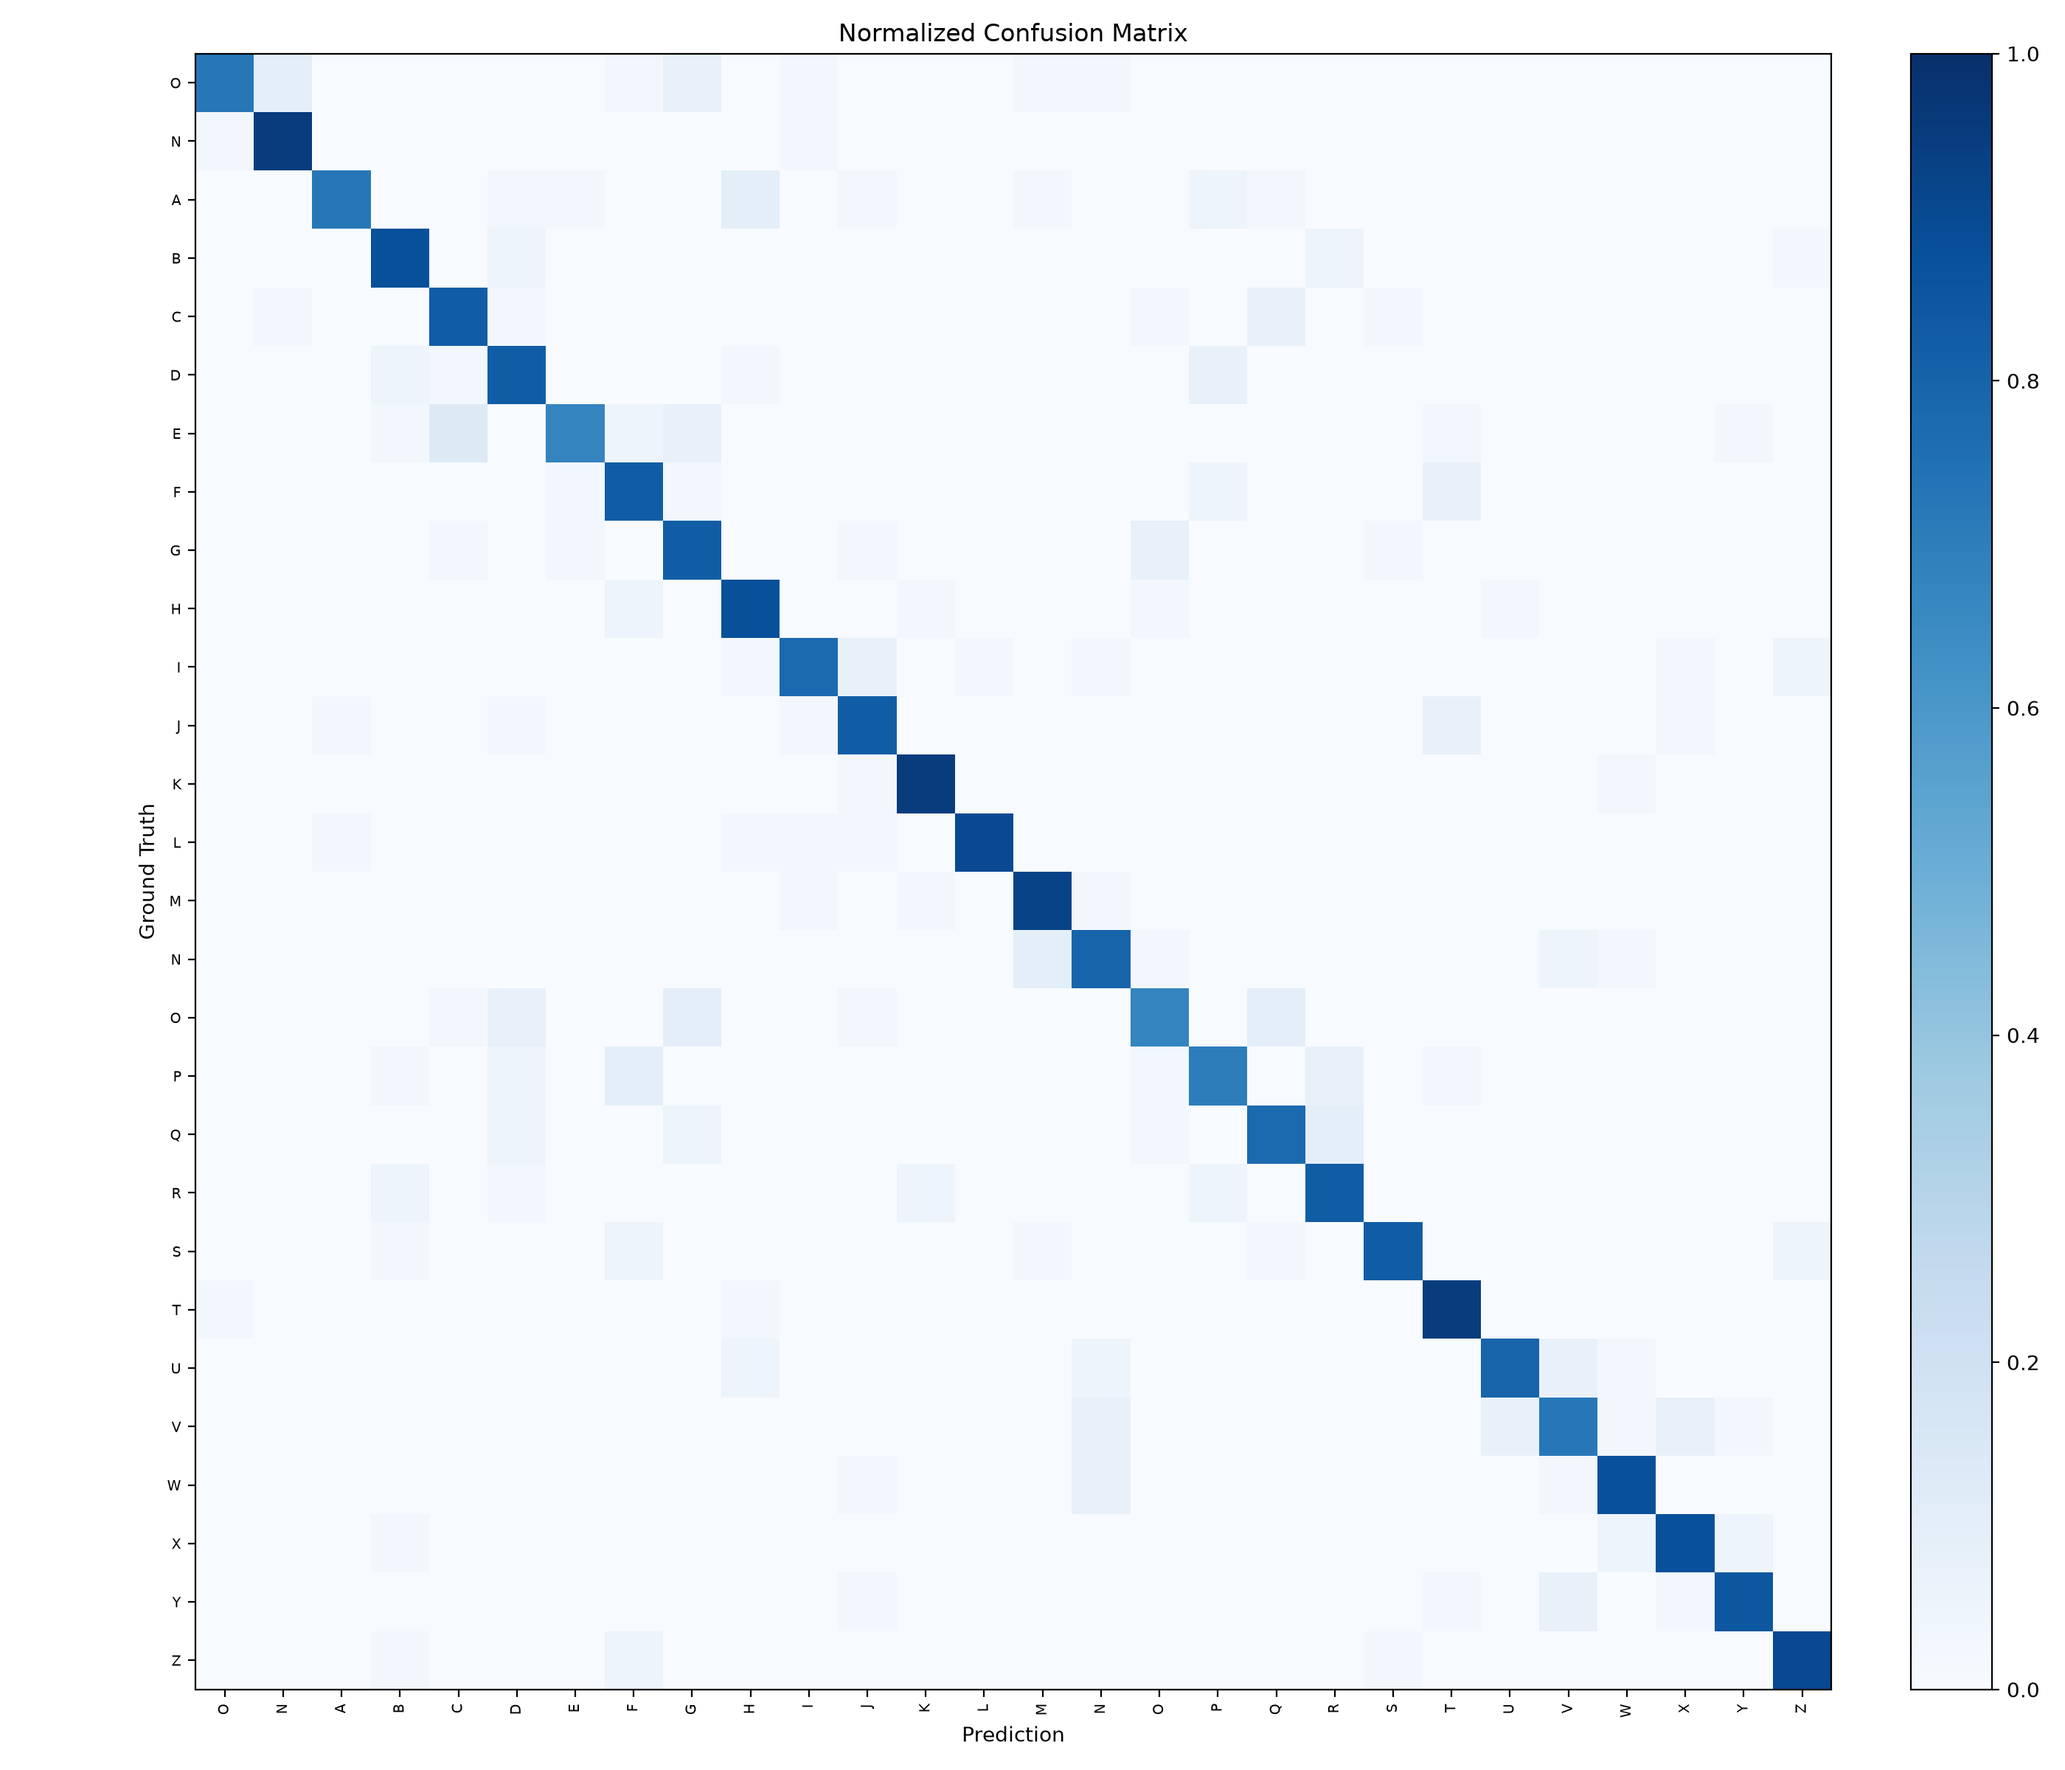
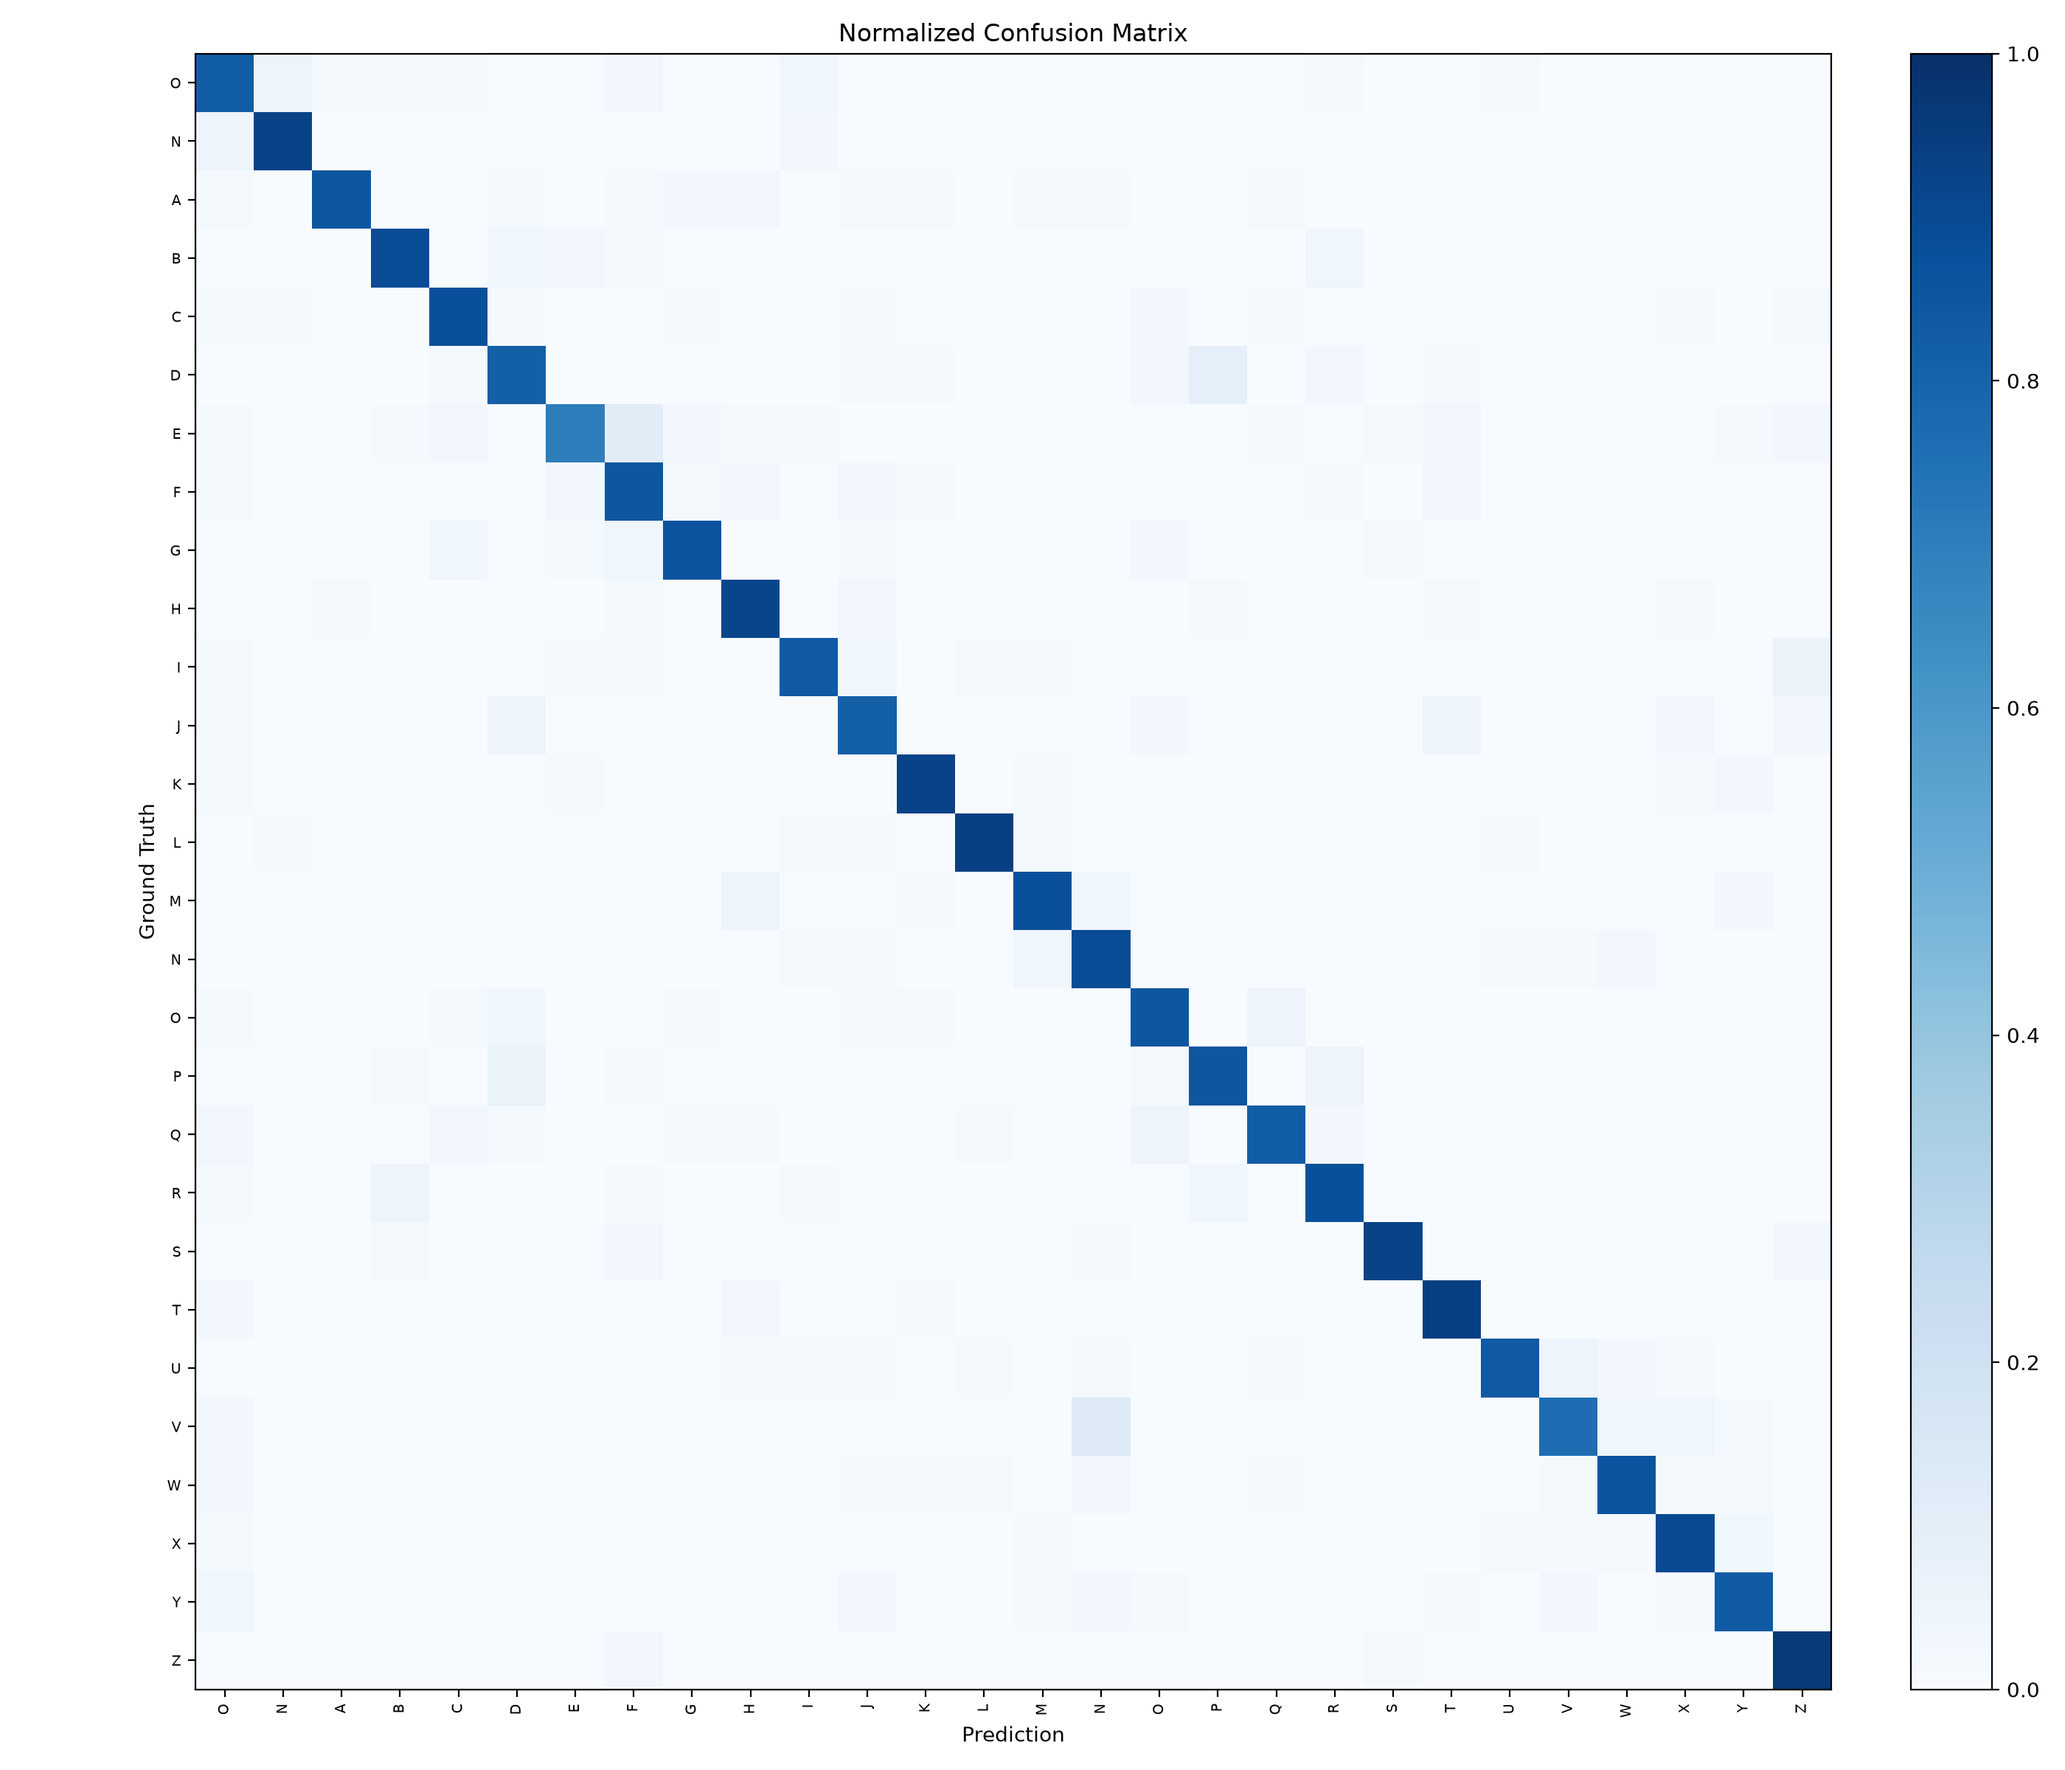
48 frame+400 vid per class

diff --git a/src/airletters/pipelines/train.py b/src/airletters/pipelines/train.py
@@ -18,7 +18,7 @@ from torch import nn
 from airletters.config import get_artifact_dir, load_config
 from airletters.data import create_dataloaders
 from airletters.models import create_model
-from airletters.utils.checkpointing import save_checkpoint
+from airletters.utils.checkpointing import load_checkpoint, save_checkpoint
 from airletters.utils.plots import save_training_curves
 from airletters.utils.reproducibility import seed_everything
 from airletters.utils.train_eval import evaluate, train_one_epoch
@@ -28,6 +28,7 @@ def parse_args() -> argparse.Namespace:
     parser = argparse.ArgumentParser(description="Train CNN+BiLSTM on AirLetters")
     parser.add_argument("--config", default="configs/letters.yaml", help="Path to a YAML config file.")
     parser.add_argument("--epochs", type=int, default=None, help="Override number of training epochs.")
+    parser.add_argument("--resume", default=None, help="Path to a checkpoint to resume training from.")
     parser.add_argument("--max-train-batches", type=int, default=None, help="Limit train batches for smoke tests.")
     parser.add_argument("--max-val-batches", type=int, default=None, help="Limit validation batches for smoke tests.")
     return parser.parse_args()
@@ -58,6 +59,25 @@ def main() -> None:
     else:
         scheduler = None
 
+    # Resume checkpoint state if requested
+    start_epoch = 0
+    best_metric = float("-inf")
+    if args.resume is not None:
+        resume_path = Path(args.resume)
+        if resume_path.is_file():
+            checkpoint = load_checkpoint(
+                resume_path,
+                model=model,
+                device=device,
+                optimizer=optimizer,
+                scheduler=scheduler,
+            )
+            start_epoch = int(checkpoint["epoch"])
+            best_metric = float(checkpoint["metrics"].get(training_config["save_best_metric"], float("-inf")))
+            print(f"Resumed training from {resume_path} at epoch {start_epoch} (best metric so far: {best_metric:.4f})")
+        else:
+            print(f"Warning: resume checkpoint not found at: {args.resume}. Starting from scratch.")
+
     checkpoints_dir = get_artifact_dir(config, "checkpoints_dir")
     logs_dir = get_artifact_dir(config, "logs_dir")
     outputs_dir = get_artifact_dir(config, "outputs_dir")
@@ -65,12 +85,13 @@ def main() -> None:
     logs_dir.mkdir(parents=True, exist_ok=True)
     outputs_dir.mkdir(parents=True, exist_ok=True)
     metrics_path = logs_dir / "metrics.jsonl"
-    # Clear metrics log at the start of each new run
-    metrics_path.write_text("", encoding="utf-8")
+    
+    # Only clear metrics log if starting a new run from scratch
+    if args.resume is None:
+        metrics_path.write_text("", encoding="utf-8")
 
     # epochs already computed above for the scheduler
     best_metric_name = str(training_config["save_best_metric"])
-    best_metric = float("-inf")
 
     print(f"Device: {device}")
     print(f"Train samples: {len(dataloaders['train'].dataset)}")
@@ -80,7 +101,7 @@ def main() -> None:
     trainable_params = sum(parameter.numel() for parameter in model.parameters() if parameter.requires_grad)
     print(f"Model parameters: {total_params / 1_000_000:.2f}M total, {trainable_params / 1_000_000:.2f}M trainable")
 
-    for epoch in range(1, epochs + 1):
+    for epoch in range(start_epoch + 1, epochs + 1):
         train_metrics = train_one_epoch(
             model=model,
             dataloader=dataloaders["train"],
@@ -132,6 +153,7 @@ def main() -> None:
             metrics=metrics,
             config=config,
             label_to_index=label_to_index,
+            scheduler=scheduler,
         )
 
         current_metric = float(metrics[best_metric_name])
@@ -145,6 +167,7 @@ def main() -> None:
                 metrics=metrics,
                 config=config,
                 label_to_index=label_to_index,
+                scheduler=scheduler,
             )
 
     # Save training curves to outputs/

diff --git a/src/airletters/utils/checkpointing.py b/src/airletters/utils/checkpointing.py
@@ -17,6 +17,7 @@ def save_checkpoint(
     metrics: Mapping[str, float],
     config: Mapping[str, Any],
     label_to_index: Mapping[str, int],
+    scheduler: torch.optim.lr_scheduler.LRScheduler | None = None,
 ) -> None:
     """Save model state and experiment metadata."""
     checkpoint_path = Path(path)
@@ -26,6 +27,7 @@ def save_checkpoint(
             "epoch": epoch,
             "model_state_dict": model.state_dict(),
             "optimizer_state_dict": optimizer.state_dict() if optimizer else None,
+            "scheduler_state_dict": scheduler.state_dict() if scheduler else None,
             "metrics": dict(metrics),
             "config": dict(config),
             "label_to_index": dict(label_to_index),
@@ -38,6 +40,8 @@ def load_checkpoint(
     path: str | Path,
     model: nn.Module | None,
     device: torch.device,
+    optimizer: torch.optim.Optimizer | None = None,
+    scheduler: torch.optim.lr_scheduler.LRScheduler | None = None,
     map_only: bool = False,
 ) -> dict[str, Any]:
     """Load model weights and return checkpoint metadata.
@@ -47,11 +51,17 @@ def load_checkpoint(
         model: Model to load weights into. If *None* or *map_only* is True,
             weights are not loaded (only metadata is returned).
         device: Device to map tensors to.
+        optimizer: Optional optimizer to restore state.
+        scheduler: Optional learning rate scheduler to restore state.
         map_only: If True, only load the checkpoint dict without applying
-            weights to the model. Useful for reading metadata before building
-            the model architecture.
+            weights to the model.
     """
     checkpoint = torch.load(Path(path), map_location=device, weights_only=False)
-    if not map_only and model is not None:
-        model.load_state_dict(checkpoint["model_state_dict"])
+    if not map_only:
+        if model is not None and "model_state_dict" in checkpoint:
+            model.load_state_dict(checkpoint["model_state_dict"])
+        if optimizer is not None and checkpoint.get("optimizer_state_dict") is not None:
+            optimizer.load_state_dict(checkpoint["optimizer_state_dict"])
+        if scheduler is not None and checkpoint.get("scheduler_state_dict") is not None:
+            scheduler.load_state_dict(checkpoint["scheduler_state_dict"])
     return checkpoint
